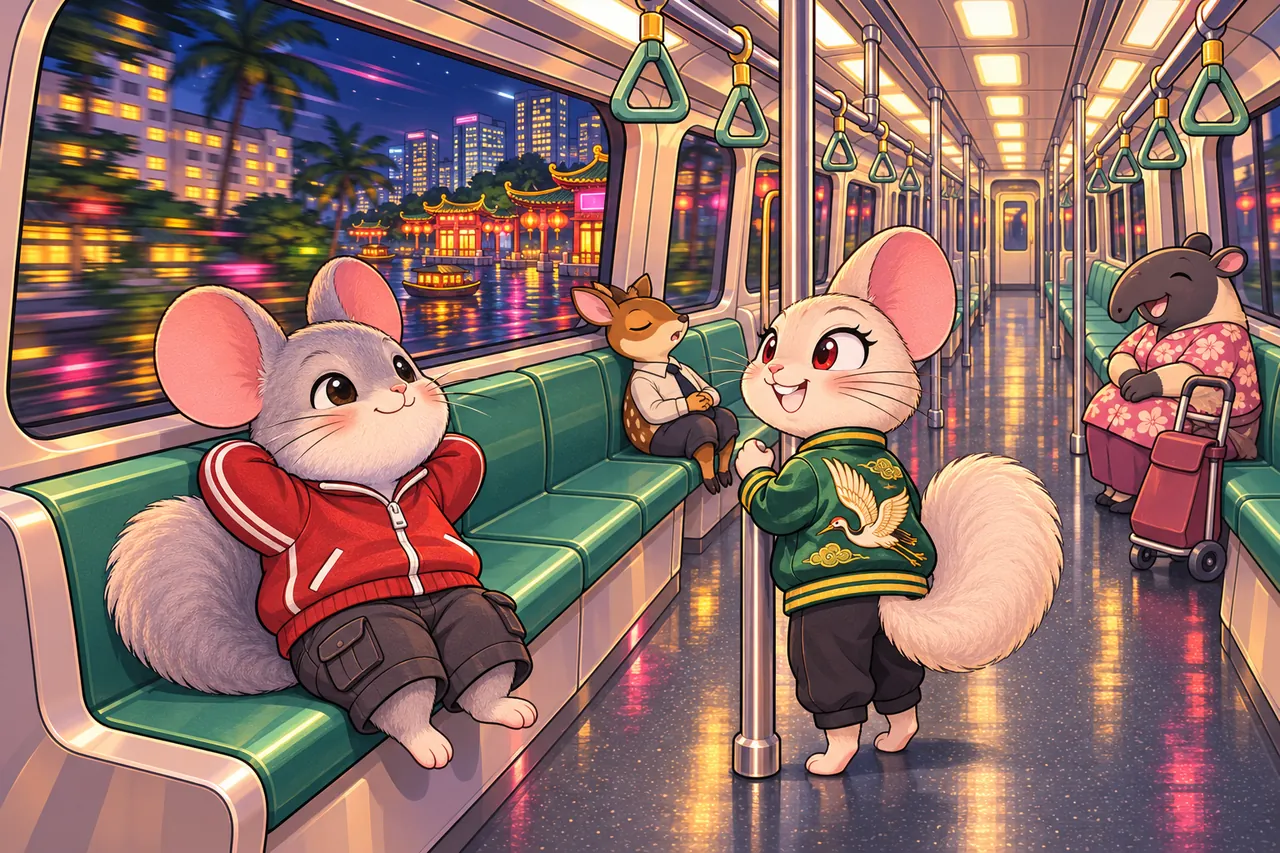
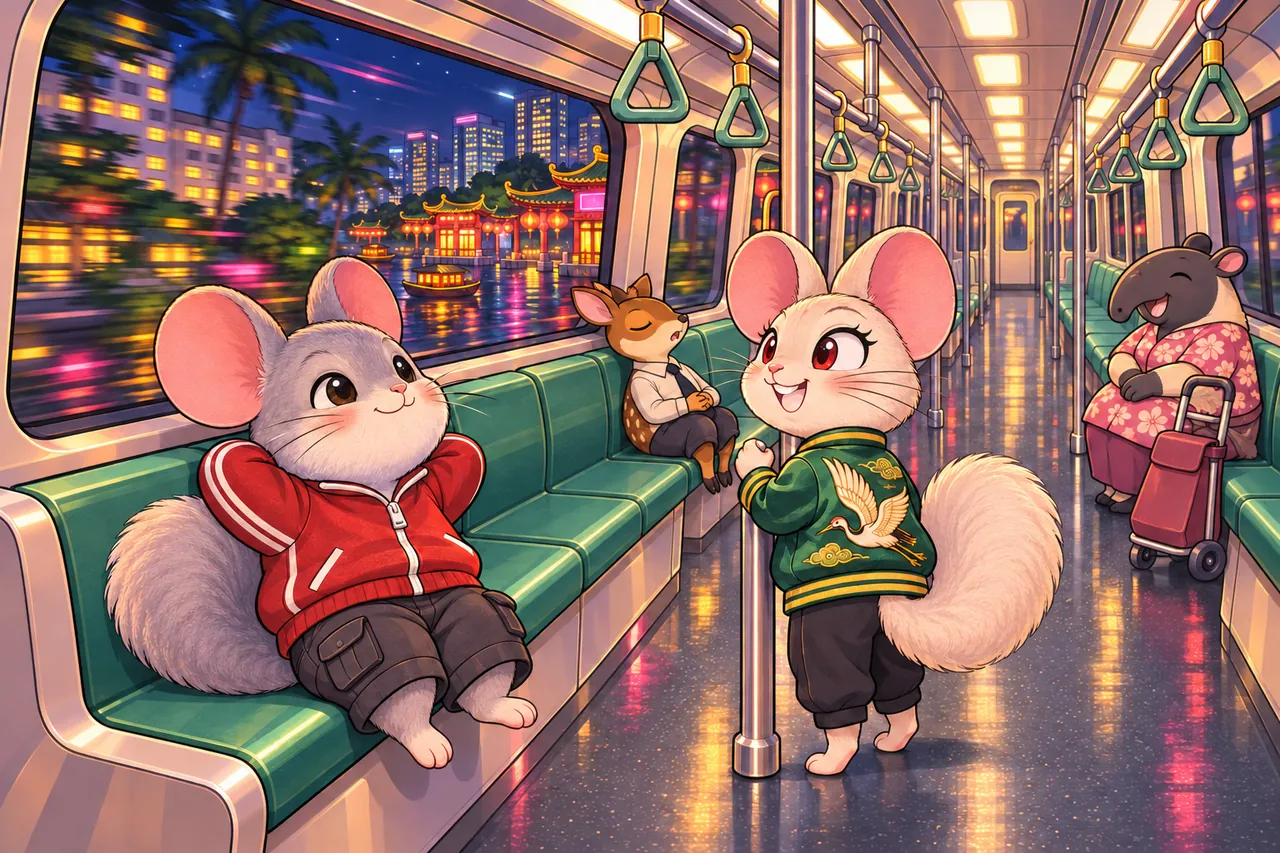
Jade Street: Dora's missing ear in the MRT ride painting

diff --git a/lib/jade-art.ts b/lib/jade-art.ts
@@ -4664,4 +4664,4 @@ export const FILL: Record<string, number> = {
 export const TEXTURES = ['road', 'walk', 'plaza', 'grass', 'canal', 'plank', 'temple', 'sea', 'dock', 'neon', 'path', 'cobble', 'xway', 'hdb', 'rubber', 'granite', 'deck', 'bay', 'india', 'glam', 'sand', 'resort', 'lagoon', 'fort', 'katong', 'orchard', 'tarmac', 'cycle', 'jewel', 'changi', 'tiong', 'quay', 'jurong', 'garden'] as const;
 export const PLAIN: Record<string, [number, number]> = {'bg-title': [1536, 1024], 'bg-mg-lock': [1280, 853], 'bg-mg-wire': [1280, 853], 'bg-mg-switch': [1280, 853], 'bg-mg-wok': [1280, 853], 'bg-mg-board': [1280, 853], 'bg-mg-haggle': [1280, 853], 'bg-mg-kopi': [1280, 853], 'bg-mg-safe': [1280, 853], 'bg-map-paper': [1024, 683], 'bg-loading': [1280, 853], 'bg-stall-market': [1280, 853], 'bg-stall-temple': [1280, 853], 'bg-stall-canal': [1280, 853], 'bg-stall-docks': [1280, 853], 'bg-stall-arcade': [1280, 853], 'bg-story-1': [1280, 853], 'bg-story-2': [1280, 853], 'bg-story-3': [1280, 853], 'bg-story-4': [1280, 853], 'bg-chapter-1': [1280, 853], 'bg-chapter-2': [1280, 853], 'bg-chapter-3': [1280, 853], 'bg-chapter-4': [1280, 853], 'bg-chapter-5': [1280, 853], 'bg-end-1': [1280, 853], 'bg-end-2': [1280, 853], 'bg-end-3': [1280, 853], 'bg-gadget-shop': [1280, 853], 'bg-chapter-6': [1280, 853], 'bg-end-4': [1280, 853], 'bg-mrt-ride': [1280, 853], 'bg-stall-heartland': [1280, 853], 'bg-stall-bay': [1280, 853], 'bg-chapter-7': [1280, 853], 'bg-end-5': [1280, 853], 'bg-cable-ride': [1280, 853], 'bg-stall-india': [1280, 853], 'bg-stall-glam': [1280, 853], 'bg-stall-resort': [1280, 853], 'bg-empire': [1280, 853], 'bg-chapter-8': [1280, 853], 'bg-end-6': [1280, 853], 'bg-stall-katong': [1280, 853], 'bg-stall-orchard': [1280, 853], 'bg-stall-changi': [1280, 853], 'bg-chapter-9': [1280, 853], 'bg-end-7': [1280, 853], 'bg-stall-tiong': [1280, 853], 'bg-stall-quay': [1280, 853], 'bg-stall-jurong': [1280, 853]};
 /** a content hash of every file in public/art/jade-street/, sent as ?v= so the art can be cached for a year */
-export const VER: Record<string, string> = {'atlas-lake16': 'b9863c6890', 'atlas-stands16': '73a81e072c', 'atlas-cast16-south': 'b9dd583554', 'atlas-cast16-far': '066ca3c6b6', 'atlas-act16': '2bb55cf0ae', 'atlas-rides15': 'fe909ed773', 'atlas-aware': '6c05ff527e', 'atlas-cast-east': '6993b3868c', 'atlas-cast-far': 'be68f6fb67', 'atlas-cast-isle': 'd6137093d7', 'atlas-cast-resort': '04a51d1d1f', 'atlas-cast-south': '73c3edc72c', 'atlas-cast-town': 'e3e8483794', 'atlas-city': '9d3e5e0e1e', 'atlas-city2': 'a7705a2a8c', 'atlas-dora': 'b9ec3e274b', 'atlas-dora2': '43fff573e2', 'atlas-east': 'c9c950a198', 'atlas-east2': 'b28ab30119', 'atlas-empire': '356b94eb1d', 'atlas-empire2': 'c5f49739fe', 'atlas-enzo': 'bedcb9aa04', 'atlas-enzo2': '698fbcee4a', 'atlas-faces-east': '993c08866d', 'atlas-faces-far': '0b5b95dbbb', 'atlas-faces-isle': '65004845ea', 'atlas-faces-resort': 'f4133d9046', 'atlas-faces-south': '6fcdc446e1', 'atlas-faces-town': '93652e9860', 'atlas-far': '83c801daa9', 'atlas-far2': 'cd584caccd', 'atlas-folk': 'b236b797c5', 'atlas-gear': 'e7536b9f8c', 'atlas-isle': '4fecc0ca2d', 'atlas-isle2': 'b4715aee8a', 'atlas-jobs': 'c3b00cb13a', 'atlas-land': 'e7dd7e81b0', 'atlas-mg': '64874661f8', 'atlas-props': '512513e99b', 'atlas-props2': 'e91c1da3d2', 'atlas-resort': '8bee077388', 'atlas-resort2': 'cadf754c98', 'atlas-rides': 'd0cce2048a', 'atlas-set': 'a3616aef03', 'atlas-set2': 'bdfe1854db', 'atlas-sg': '11d257b248', 'atlas-sg2': 'b7bd370468', 'atlas-south': 'dc4ba8a7e4', 'atlas-south2': '4964999b2d', 'atlas-ui': '39055c0ebe', 'bg-cable-ride': '0018d7f206', 'bg-chapter-1': '39e95b70e2', 'bg-chapter-2': 'c6eae4e23b', 'bg-chapter-3': 'e473dea1ed', 'bg-chapter-4': '2d8f49eb39', 'bg-chapter-5': '46e0c818bf', 'bg-chapter-6': '1cadb76848', 'bg-chapter-7': '151661fa10', 'bg-chapter-8': '8de0d54485', 'bg-chapter-9': 'fedfc885e5', 'bg-empire': '9059bb5b25', 'bg-end-1': '41d3829fd8', 'bg-end-2': '7a6979ac8b', 'bg-end-3': '0f098b8291', 'bg-end-4': '6e947828ba', 'bg-end-5': 'f23fd9f478', 'bg-end-6': 'f2e14dcedb', 'bg-end-7': '9811890a23', 'bg-gadget-shop': '9e43ee5ca2', 'bg-loading': '74ca740d3f', 'bg-map-paper': '196bbb2f61', 'bg-mg-board': '58c9ac51f6', 'bg-mg-haggle': '0be12eb299', 'bg-mg-kopi': '2d37fe15be', 'bg-mg-lock': '54f79c464e', 'bg-mg-safe': 'd992489153', 'bg-mg-switch': 'dfb6f981ad', 'bg-mg-wire': '2fb8c43ff3', 'bg-mg-wok': '5ec96291c1', 'bg-mrt-ride': '4f07d26b78', 'bg-stall-arcade': '4069370f26', 'bg-stall-bay': 'ead1c42631', 'bg-stall-canal': '9fa618250b', 'bg-stall-changi': 'f23566cda1', 'bg-stall-docks': 'd2757a418e', 'bg-stall-glam': '0318c8fa67', 'bg-stall-heartland': '8e2d25dae4', 'bg-stall-india': '85a7343c38', 'bg-stall-jurong': '610c6341bd', 'bg-stall-katong': '3458759355', 'bg-stall-market': '2ee08500da', 'bg-stall-orchard': 'e36c5aefb2', 'bg-stall-quay': 'c920af8561', 'bg-stall-resort': '2be8064c28', 'bg-stall-temple': '8d770b42ad', 'bg-stall-tiong': '7dc0dd1982', 'bg-story-1': '495a2313c5', 'bg-story-2': '38dc31aa0a', 'bg-story-3': 'f0d40a8b40', 'bg-story-4': '9e776c0031', 'bg-title': 'f7074c001b', 'tex-bay': '2b2ead15a6', 'tex-canal': '984c616bc3', 'tex-changi': 'd0d210aa4d', 'tex-cobble': 'ffa35bac89', 'tex-cycle': '4e8d4943bd', 'tex-deck': 'feaa49ab7e', 'tex-dock': '56cedf773c', 'tex-fort': '6cfe70f213', 'tex-garden': '8de5353f74', 'tex-glam': '12aa23af36', 'tex-granite': 'b5d611ddf5', 'tex-grass': '2b40c03b43', 'tex-hdb': 'cfe16c39ff', 'tex-india': '322ec75d2a', 'tex-jewel': 'f413902539', 'tex-jurong': 'dce899eb4a', 'tex-katong': '5ca9995443', 'tex-lagoon': '7194978be9', 'tex-neon': '7cefd7035d', 'tex-orchard': '71c2f97876', 'tex-path': '7185e5fd49', 'tex-plank': '39a9bfb3c3', 'tex-plaza': 'd818f31ee6', 'tex-quay': '7b61a601e8', 'tex-resort': '9323ea7a70', 'tex-road': 'df2a879824', 'tex-rubber': 'af7f675c91', 'tex-sand': 'f2b51bd2fa', 'tex-sea': '33c4a10f2d', 'tex-tarmac': 'e44e0bef07', 'tex-temple': '2d4d31a220', 'tex-tiong': '53a74b805f', 'tex-walk': '7059e943c6', 'tex-xway': 'b394d5c6d0', 'ui-btn-jade': '0575db29d5', 'ui-btn-red': 'b38696fe12', 'ui-lantern-off': 'aa12a882a8', 'ui-lantern-on': 'ae946067fe', 'ui-map-frame': 'ebc4710313', 'ui-plaque-jade': 'e6217f6c1b', 'ui-plaque-red': 'a8a020c2b2', 'ui-ring': 'f0ab8b644c'};
+export const VER: Record<string, string> = {'atlas-lake16': 'b9863c6890', 'atlas-stands16': '73a81e072c', 'atlas-cast16-south': 'b9dd583554', 'atlas-cast16-far': '066ca3c6b6', 'atlas-act16': '2bb55cf0ae', 'atlas-rides15': 'fe909ed773', 'atlas-aware': '6c05ff527e', 'atlas-cast-east': '6993b3868c', 'atlas-cast-far': 'be68f6fb67', 'atlas-cast-isle': 'd6137093d7', 'atlas-cast-resort': '04a51d1d1f', 'atlas-cast-south': '73c3edc72c', 'atlas-cast-town': 'e3e8483794', 'atlas-city': '9d3e5e0e1e', 'atlas-city2': 'a7705a2a8c', 'atlas-dora': 'b9ec3e274b', 'atlas-dora2': '43fff573e2', 'atlas-east': 'c9c950a198', 'atlas-east2': 'b28ab30119', 'atlas-empire': '356b94eb1d', 'atlas-empire2': 'c5f49739fe', 'atlas-enzo': 'bedcb9aa04', 'atlas-enzo2': '698fbcee4a', 'atlas-faces-east': '993c08866d', 'atlas-faces-far': '0b5b95dbbb', 'atlas-faces-isle': '65004845ea', 'atlas-faces-resort': 'f4133d9046', 'atlas-faces-south': '6fcdc446e1', 'atlas-faces-town': '93652e9860', 'atlas-far': '83c801daa9', 'atlas-far2': 'cd584caccd', 'atlas-folk': 'b236b797c5', 'atlas-gear': 'e7536b9f8c', 'atlas-isle': '4fecc0ca2d', 'atlas-isle2': 'b4715aee8a', 'atlas-jobs': 'c3b00cb13a', 'atlas-land': 'e7dd7e81b0', 'atlas-mg': '64874661f8', 'atlas-props': '512513e99b', 'atlas-props2': 'e91c1da3d2', 'atlas-resort': '8bee077388', 'atlas-resort2': 'cadf754c98', 'atlas-rides': 'd0cce2048a', 'atlas-set': 'a3616aef03', 'atlas-set2': 'bdfe1854db', 'atlas-sg': '11d257b248', 'atlas-sg2': 'b7bd370468', 'atlas-south': 'dc4ba8a7e4', 'atlas-south2': '4964999b2d', 'atlas-ui': '39055c0ebe', 'bg-cable-ride': '0018d7f206', 'bg-chapter-1': '39e95b70e2', 'bg-chapter-2': 'c6eae4e23b', 'bg-chapter-3': 'e473dea1ed', 'bg-chapter-4': '2d8f49eb39', 'bg-chapter-5': '46e0c818bf', 'bg-chapter-6': '1cadb76848', 'bg-chapter-7': '151661fa10', 'bg-chapter-8': '8de0d54485', 'bg-chapter-9': 'fedfc885e5', 'bg-empire': '9059bb5b25', 'bg-end-1': '41d3829fd8', 'bg-end-2': '7a6979ac8b', 'bg-end-3': '0f098b8291', 'bg-end-4': '6e947828ba', 'bg-end-5': 'f23fd9f478', 'bg-end-6': 'f2e14dcedb', 'bg-end-7': '9811890a23', 'bg-gadget-shop': '9e43ee5ca2', 'bg-loading': '74ca740d3f', 'bg-map-paper': '196bbb2f61', 'bg-mg-board': '58c9ac51f6', 'bg-mg-haggle': '0be12eb299', 'bg-mg-kopi': '2d37fe15be', 'bg-mg-lock': '54f79c464e', 'bg-mg-safe': 'd992489153', 'bg-mg-switch': 'dfb6f981ad', 'bg-mg-wire': '2fb8c43ff3', 'bg-mg-wok': '5ec96291c1', 'bg-mrt-ride': '2c3fcf70b2', 'bg-stall-arcade': '4069370f26', 'bg-stall-bay': 'ead1c42631', 'bg-stall-canal': '9fa618250b', 'bg-stall-changi': 'f23566cda1', 'bg-stall-docks': 'd2757a418e', 'bg-stall-glam': '0318c8fa67', 'bg-stall-heartland': '8e2d25dae4', 'bg-stall-india': '85a7343c38', 'bg-stall-jurong': '610c6341bd', 'bg-stall-katong': '3458759355', 'bg-stall-market': '2ee08500da', 'bg-stall-orchard': 'e36c5aefb2', 'bg-stall-quay': 'c920af8561', 'bg-stall-resort': '2be8064c28', 'bg-stall-temple': '8d770b42ad', 'bg-stall-tiong': '7dc0dd1982', 'bg-story-1': '495a2313c5', 'bg-story-2': '38dc31aa0a', 'bg-story-3': 'f0d40a8b40', 'bg-story-4': '9e776c0031', 'bg-title': 'f7074c001b', 'tex-bay': '2b2ead15a6', 'tex-canal': '984c616bc3', 'tex-changi': 'd0d210aa4d', 'tex-cobble': 'ffa35bac89', 'tex-cycle': '4e8d4943bd', 'tex-deck': 'feaa49ab7e', 'tex-dock': '56cedf773c', 'tex-fort': '6cfe70f213', 'tex-garden': '8de5353f74', 'tex-glam': '12aa23af36', 'tex-granite': 'b5d611ddf5', 'tex-grass': '2b40c03b43', 'tex-hdb': 'cfe16c39ff', 'tex-india': '322ec75d2a', 'tex-jewel': 'f413902539', 'tex-jurong': 'dce899eb4a', 'tex-katong': '5ca9995443', 'tex-lagoon': '7194978be9', 'tex-neon': '7cefd7035d', 'tex-orchard': '71c2f97876', 'tex-path': '7185e5fd49', 'tex-plank': '39a9bfb3c3', 'tex-plaza': 'd818f31ee6', 'tex-quay': '7b61a601e8', 'tex-resort': '9323ea7a70', 'tex-road': 'df2a879824', 'tex-rubber': 'af7f675c91', 'tex-sand': 'f2b51bd2fa', 'tex-sea': '33c4a10f2d', 'tex-tarmac': 'e44e0bef07', 'tex-temple': '2d4d31a220', 'tex-tiong': '53a74b805f', 'tex-walk': '7059e943c6', 'tex-xway': 'b394d5c6d0', 'ui-btn-jade': '0575db29d5', 'ui-btn-red': 'b38696fe12', 'ui-lantern-off': 'aa12a882a8', 'ui-lantern-on': 'ae946067fe', 'ui-map-frame': 'ebc4710313', 'ui-plaque-jade': 'e6217f6c1b', 'ui-plaque-red': 'a8a020c2b2', 'ui-ring': 'f0ab8b644c'};

diff --git a/CHANGELOG.md b/CHANGELOG.md
@@ -6,6 +6,7 @@ Notable changes to Dora & Enzo's Arcade, newest first. Every push to `main` depl
 
 ### Fixed
 
+- **Jade Street**: Dora has both ears again in the MRT ride painting.
 - **Jade Street**: the MRT gates are easier to read. Each stop's district (and the taxi list's fare) sits on a dark chip instead of faded beige on the jade plaque. The station names have a firmer shadow, and the stop you are at shows in gold as "you are here" instead of greyed out like a locked one.
 - **Jade Street**: Kak Melati could not be seen at Clarke Quay, because she stands under one of the river canopies, which were drawn over everyone. Canopies and other overhead props now turn see-through over the heroes and any job giver standing under them.
 - **Jade Street**: retrying River Run (or any boat job) could hand you the bumboat left out mid-river from the try before, which you could not step into from the bank. A job's boat is now always one you can board from the bank.
